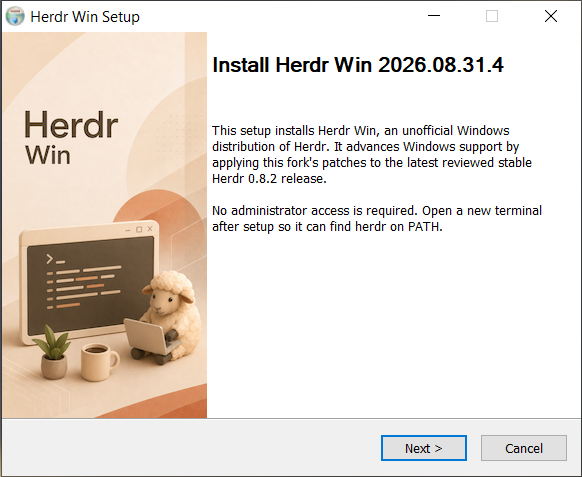
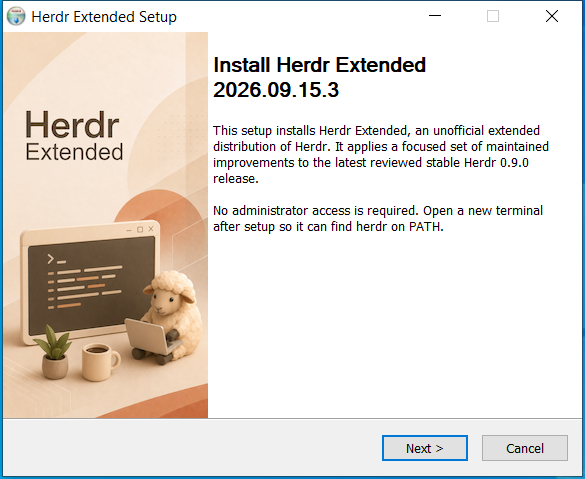
docs: show corrected Herdr Extended setup

diff --git a/README.md b/README.md
@@ -92,7 +92,7 @@ Windows managed installations are per-user, require no administrator access, and
 Download the Windows setup from the [latest Herdr Extended release](https://github.com/hdosys/herdr-ext/releases/latest), verify its GitHub SHA-256 digest, and run it.
 
 <p align="center">
-  <img src="https://raw.githubusercontent.com/hdosys/herdr-ext/master/docs/assets/herdr-extended-setup-welcome.png?v=2026.09.15.2" alt="Herdr Extended setup welcome page">
+  <img src="https://raw.githubusercontent.com/hdosys/herdr-ext/master/docs/assets/herdr-extended-setup-welcome.png?v=2026.09.15.3" alt="Herdr Extended setup welcome page">
 </p>
 
 The managed install lives under `%LOCALAPPDATA%\Programs\Herdr`, registers **Herdr Extended** in Installed Apps, installs Herdr's canonical agent skill, and preserves customized skill copies.

diff --git a/docs/next/README.md b/docs/next/README.md
@@ -92,7 +92,7 @@ Windows managed installations are per-user, require no administrator access, and
 Download the Windows setup from the [latest Herdr Extended release](https://github.com/hdosys/herdr-ext/releases/latest), verify its GitHub SHA-256 digest, and run it.
 
 <p align="center">
-  <img src="https://raw.githubusercontent.com/hdosys/herdr-ext/master/docs/assets/herdr-extended-setup-welcome.png?v=2026.09.15.2" alt="Herdr Extended setup welcome page">
+  <img src="https://raw.githubusercontent.com/hdosys/herdr-ext/master/docs/assets/herdr-extended-setup-welcome.png?v=2026.09.15.3" alt="Herdr Extended setup welcome page">
 </p>
 
 The managed install lives under `%LOCALAPPDATA%\Programs\Herdr`, registers **Herdr Extended** in Installed Apps, installs Herdr's canonical agent skill, and preserves customized skill copies.
